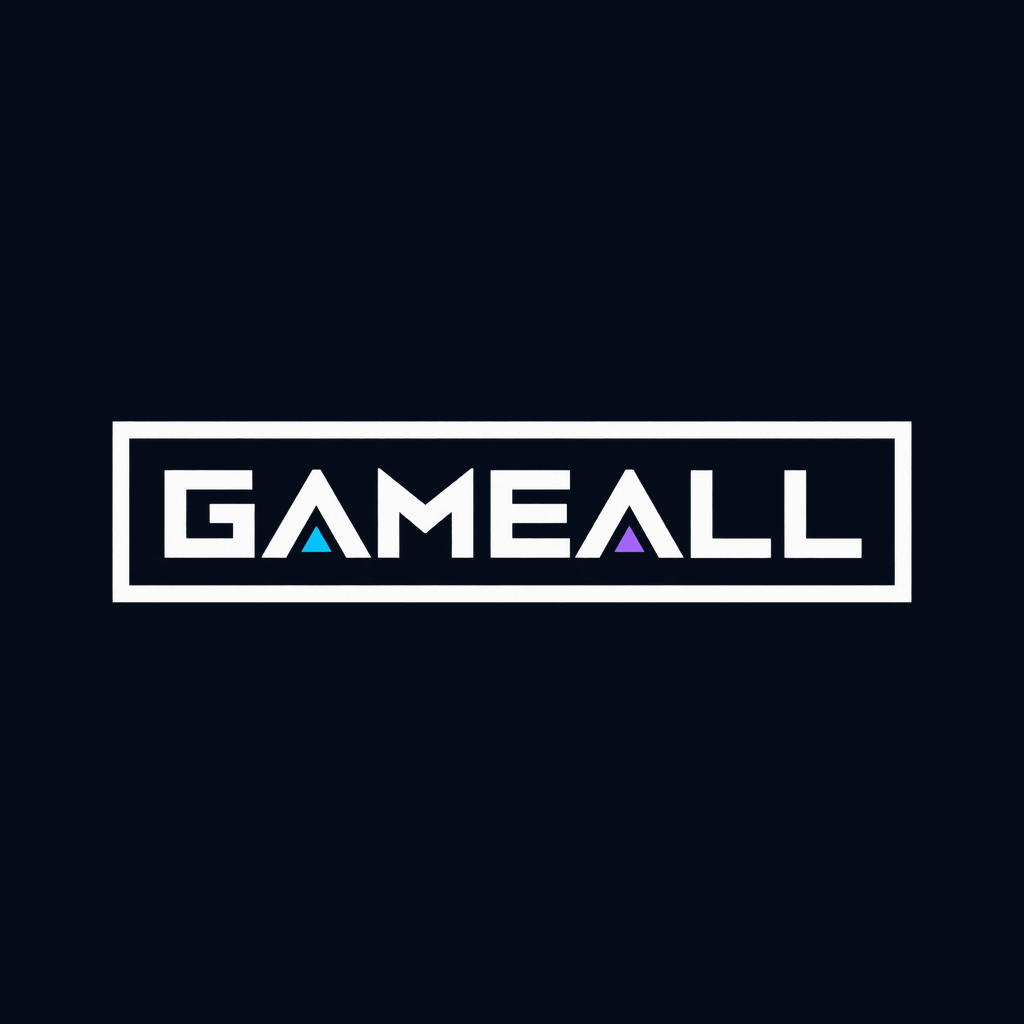
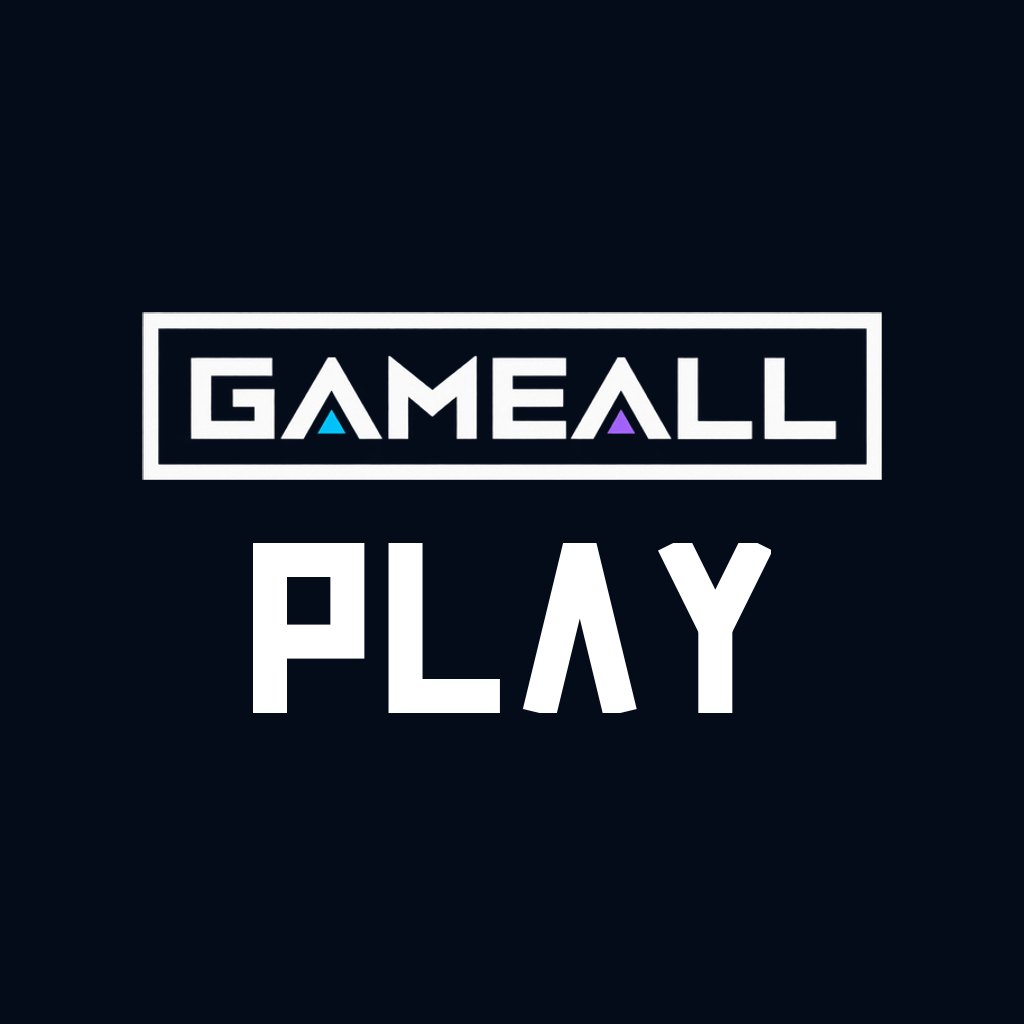
Flutter Changes for Player App

Changed region(s): [[0.0938, 0.2812, 0.9062, 0.7188]]

diff --git a/player_app/web/index.html b/player_app/web/index.html
@@ -1,4 +1,4 @@
-<!DOCTYPE html>
+<!DOCTYPE html>
 <html>
 <head>
   <!--
@@ -23,15 +23,15 @@
   <!-- iOS meta tags & icons -->
   <meta name="mobile-web-app-capable" content="yes">
   <meta name="apple-mobile-web-app-status-bar-style" content="black">
-  <meta name="apple-mobile-web-app-title" content="GameAll">
+  <meta name="apple-mobile-web-app-title" content="GameAll Play">
   <link rel="apple-touch-icon" href="icons/Icon-192.png">
 
   <!-- Favicon -->
   <!-- ?v= makes browsers fetch the new icon instead of the one they cached -->
-  <link rel="icon" type="image/png" sizes="32x32" href="favicon-32.png?v=3"/>
-  <link rel="icon" type="image/png" sizes="96x96" href="favicon.png?v=3"/>
+  <link rel="icon" type="image/png" sizes="32x32" href="favicon-32.png?v=6"/>
+  <link rel="icon" type="image/png" sizes="96x96" href="favicon.png?v=6"/>
 
-  <title>GameAll</title>
+  <title>GameAll Play</title>
   <link rel="manifest" href="manifest.json">
   <meta name="theme-color" content="#050C19">
   <style>html,body{background:#050C19;margin:0}</style>

diff --git a/player_app/lib/features/profile/presentation/preferences_page.dart b/player_app/lib/features/profile/presentation/preferences_page.dart
@@ -224,7 +224,7 @@ class SupportLegalPage extends ConsumerWidget {
                           Uri(
                             scheme: 'mailto',
                             path: supportEmail,
-                            query: 'subject=GameAll Player support',
+                            query: 'subject=GameAll Play support',
                           ),
                         ),
                       ),
@@ -293,7 +293,7 @@ class SupportLegalPage extends ConsumerWidget {
                   padding: const EdgeInsets.symmetric(horizontal: 12),
                   child: ProfileMenuRow(
                     icon: Icons.info_outline_rounded,
-                    title: 'GameAll Player',
+                    title: 'GameAll Play',
                     subtitle: 'Version $version',
                     onTap: null,
                     trailing: const SizedBox.shrink(),

diff --git a/src/features/plans/pricing-content.ts b/src/features/plans/pricing-content.ts
@@ -65,12 +65,12 @@ export const PRICING_MODULES: PricingModule[] = [
     basic: {
       title: "Player App",
       sub: "Guest booking only",
-      description: "Your club is visible in the GameAll Player App, and players can book guest slots with you. Memberships are not open to players.",
+      description: "Your club is visible in the GameAll Play App, and players can book guest slots with you. Memberships are not open to players.",
     },
     advanced: {
       title: "Player App",
       sub: "Guest booking & membership enrolment",
-      description: "Your club is visible in the GameAll Player App. Players can book guest slots and enrol in your memberships themselves.",
+      description: "Your club is visible in the GameAll Play App. Players can book guest slots and enrol in your memberships themselves.",
     },
   },
   {

diff --git a/player_app/lib/features/welcome/welcome_screen.dart b/player_app/lib/features/welcome/welcome_screen.dart
@@ -137,7 +137,7 @@ class _Brand extends StatelessWidget {
   }
 }
 
-/// "Your Badminton Playground" and its one-line promise, left aligned above the button.
+/// "Your Sports Playground" and its one-line promise, left aligned above the button.
 class _Headline extends StatelessWidget {
   const _Headline({required this.width});
   final double width;
@@ -164,7 +164,7 @@ class _Headline extends StatelessWidget {
           ),
           SizedBox(height: width * 0.05),
           Text('Your', style: line(Colors.white)),
-          Text('Badminton', style: line(WelcomeScreen._green)),
+          Text('Sports', style: line(WelcomeScreen._green)),
           Text('Playground', style: line(Colors.white)),
           SizedBox(height: width * 0.035),
           ConstrainedBox(

diff --git a/player_app/lib/core/theme/app_colors.dart b/player_app/lib/core/theme/app_colors.dart
@@ -1,6 +1,6 @@
 import 'package:flutter/material.dart';
 
-/// The GameAll Player colour tokens. One palette, defined once; widgets read the theme-aware [AppPalette] (`context.palette`) and
+/// The GameAll Play colour tokens. One palette, defined once; widgets read the theme-aware [AppPalette] (`context.palette`) and
 /// never hard-code a colour, so Dark and Light share one set of widgets.
 class AppColors {
   const AppColors._();

diff --git a/player_app/test/welcome_screen_test.dart b/player_app/test/welcome_screen_test.dart
@@ -22,7 +22,7 @@ void main() {
     await pump(tester);
     expect(find.text('PLAY  ·  BOOK  ·  COMPETE'), findsOneWidget);
     expect(find.text('Your'), findsOneWidget);
-    expect(find.text('Badminton'), findsOneWidget);
+    expect(find.text('Sports'), findsOneWidget);
     expect(find.text('Playground'), findsOneWidget);
     expect(
       find.text('Book courts, manage memberships, join tournaments and more.'),

diff --git a/player_app/lib/core/theme/app_dimensions.dart b/player_app/lib/core/theme/app_dimensions.dart
@@ -1,6 +1,6 @@
 import 'package:flutter/material.dart';
 
-/// Spacing, radii and sizes of the GameAll Player design (logical pixels). The mobile design is built on a 390dp-wide screen.
+/// Spacing, radii and sizes of the GameAll Play design (logical pixels). The mobile design is built on a 390dp-wide screen.
 class AppDimensions {
   const AppDimensions._();
 

diff --git a/player_app/lib/main.dart b/player_app/lib/main.dart
@@ -77,7 +77,7 @@ class GameAllPlayerApp extends ConsumerWidget {
       }
     });
     return MaterialApp(
-      title: 'GameAll',
+      title: 'GameAll Play',
       debugShowCheckedModeBanner: false,
       theme: AppTheme.light(),
       darkTheme: AppTheme.dark(),

diff --git a/player_app/README.md b/player_app/README.md
@@ -1,4 +1,4 @@
-# GameAll Player
+# GameAll Play
 
 The players' app: view registrations, start memberships, book courts (guest booking) and follow tournaments.
 It lives beside the club-management app (`../mobile`) in the same repo and talks to the same Supabase project.
@@ -8,7 +8,7 @@ One Flutter code base builds the **Android app** and the **web app**.
 |---|---|---|
 | Folder | `mobile/` | `player_app/` |
 | Package | `gameall_club_mobile` | `gameall_player` |
-| Android id | `gameall.venue` | `com.gameall.gameall_player` |
+| Android id | `gameall.venue` | `com.gameall.gameall_play` |
 
 ## Run / build
 
